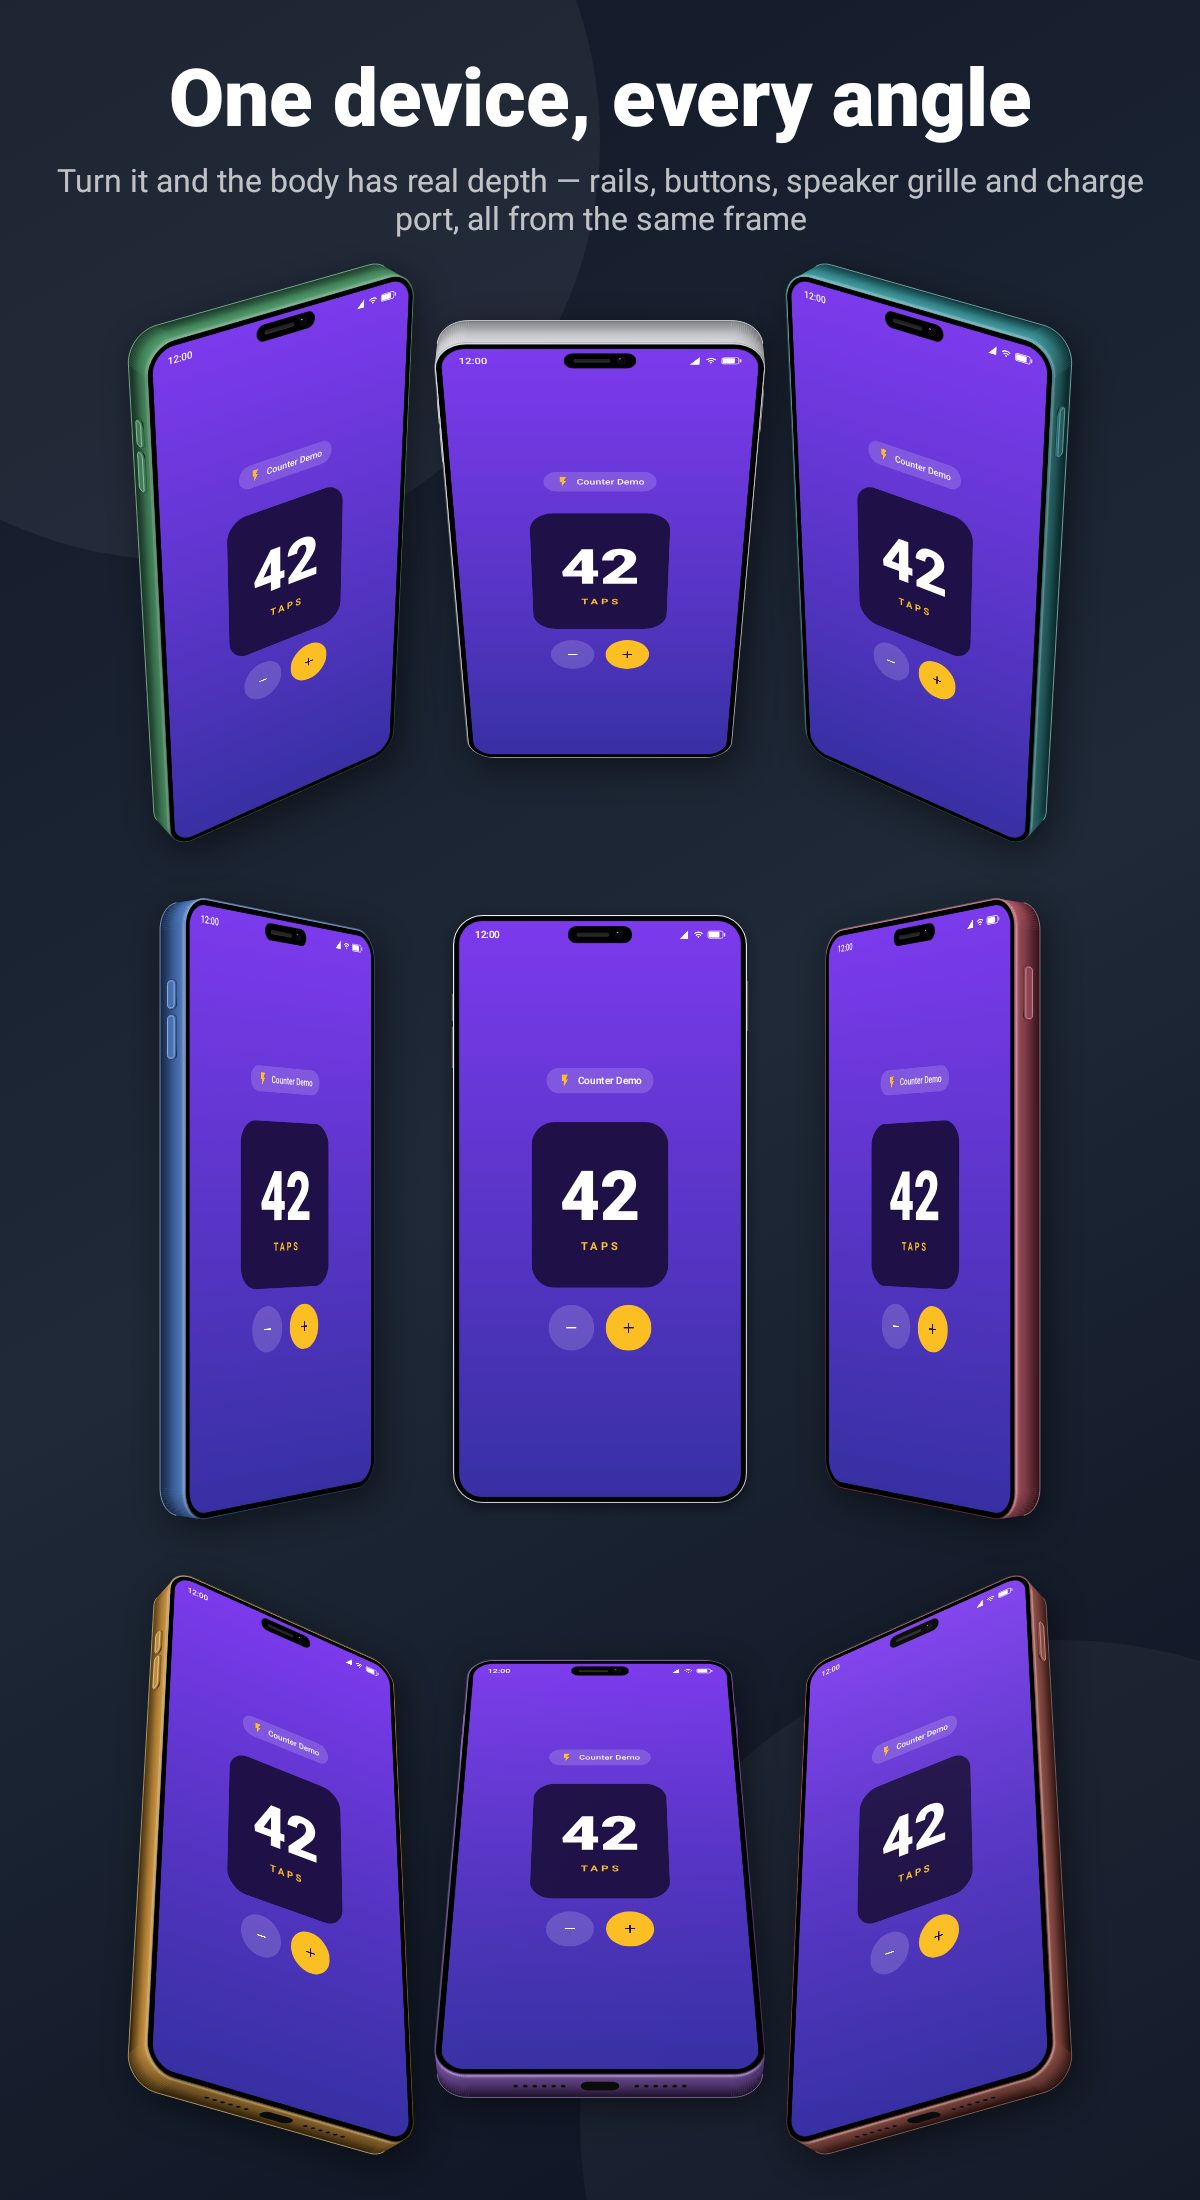
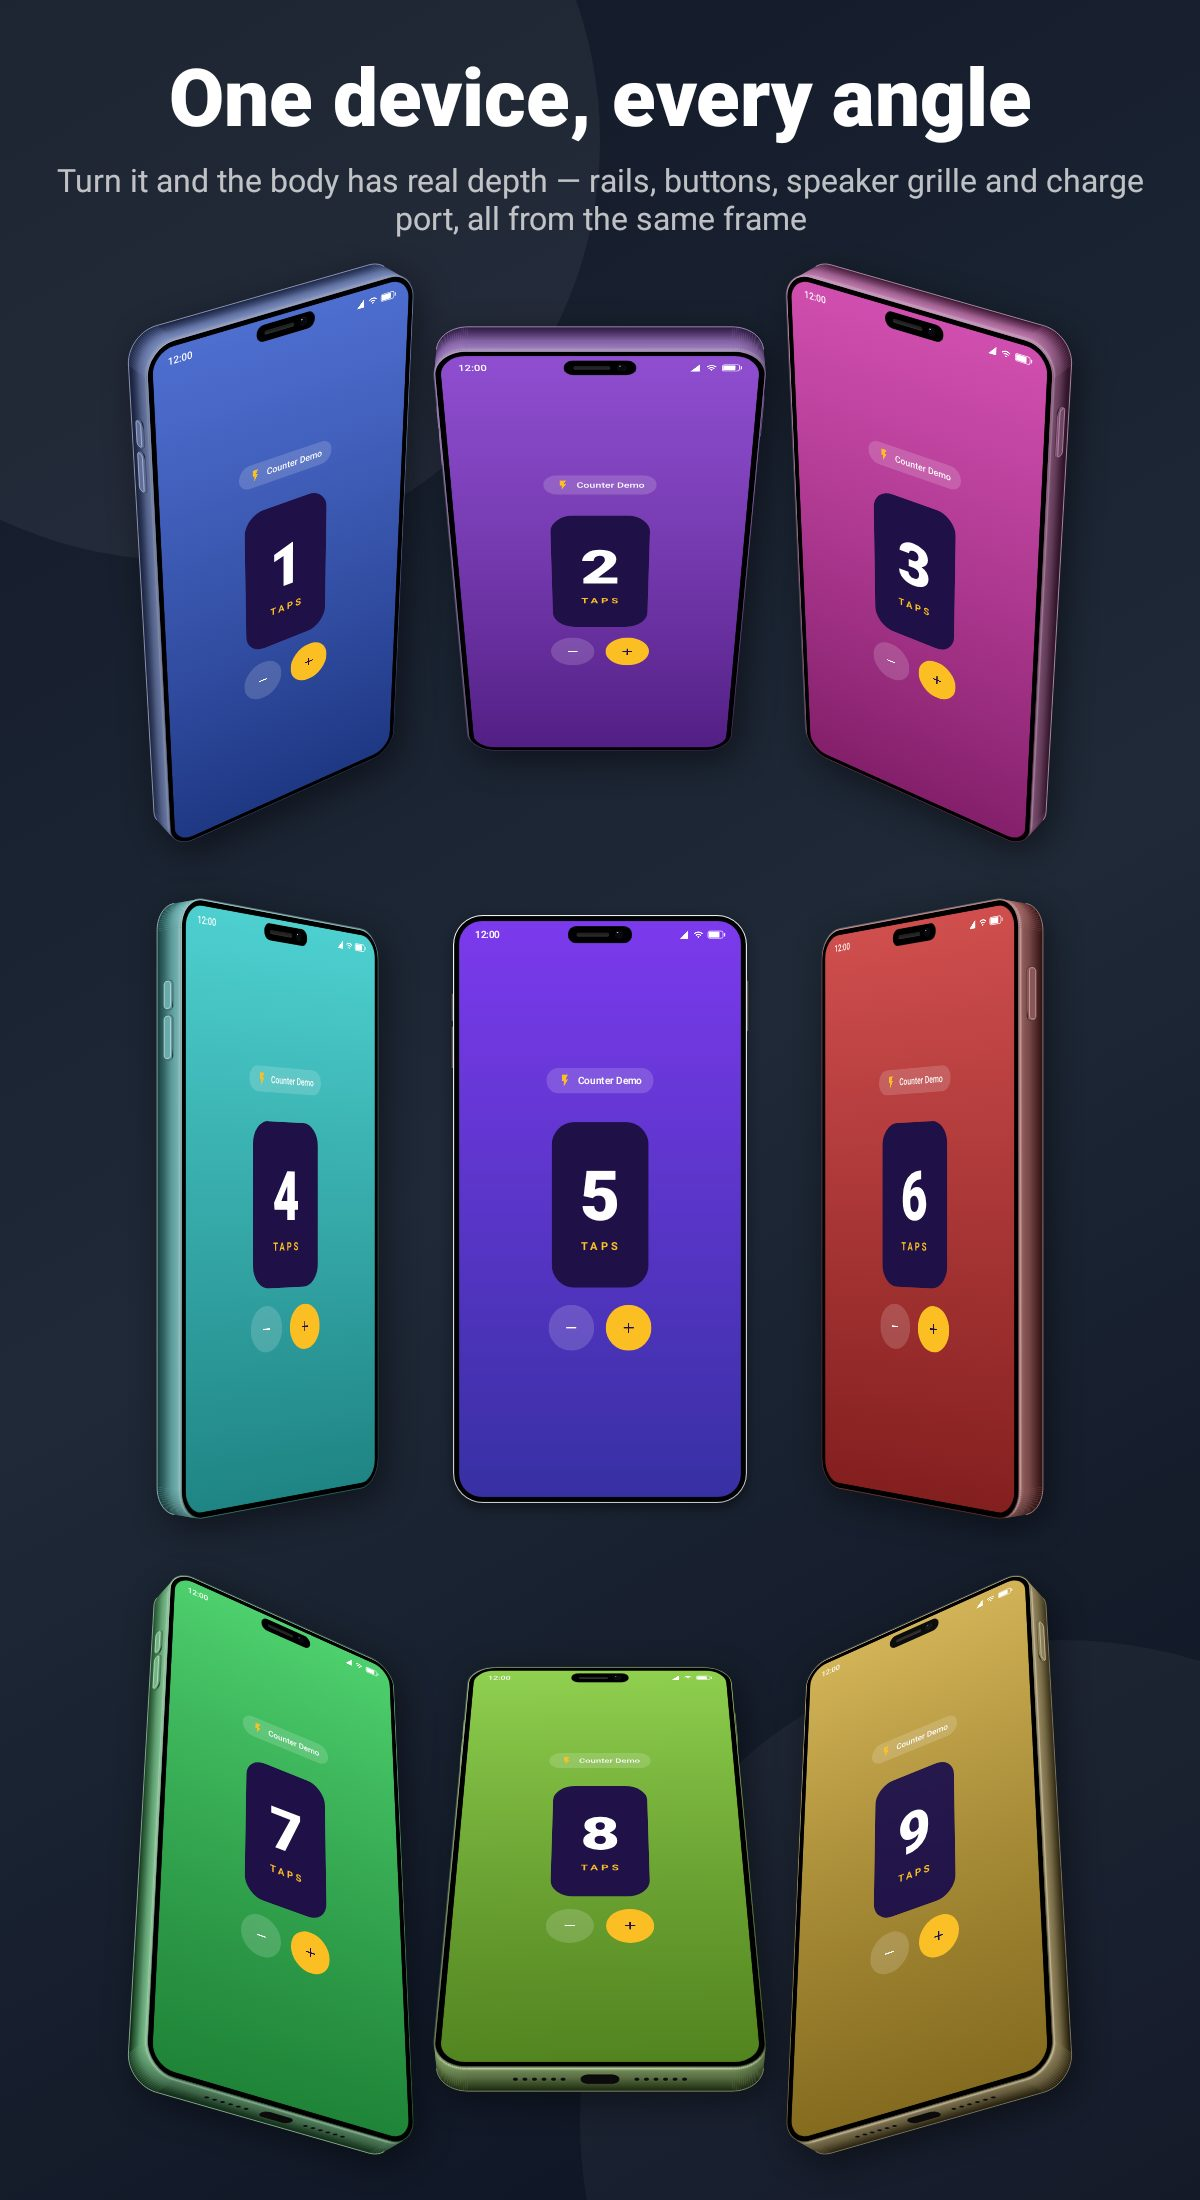
Give every device in the showcase its own screen
Nine identical counter screens made the grid look like one render repeated,
which is the opposite of what it is: nine separate compositions, each
measured, laid out and warped onto its own quad. Colouring each screen to
the hue of the body it sits on says that in the one way a still image can —
a bitmap mockup would need nine renders to do it, and this needs none.

The tilts are generated from two constants now instead of a hand-written
table. A corner device turns on both axes at once, so each axis takes about
1/sqrt(2) of the turn an edge device makes on its one axis; a corner taking
the full angle on each would read as far steeper than its neighbours rather
than as the same turn pointed diagonally. That lands corners at 34 degrees
and edges at 48, which is where the table already sat — the angles do not
move, the reason for them is now written down.

The middle one keeps CounterScreen's own purple. It is the reference device
in every other respect, so it should show the app in the colours the app
actually has, and leaving it out of the wheel is also what keeps it legible
as the one that is not turned.

diff --git a/example/src/main/kotlin/dev/lucianosantos/storescreenshots/example/SolidShowcaseBanner.kt b/example/src/main/kotlin/dev/lucianosantos/storescreenshots/example/SolidShowcaseBanner.kt
@@ -24,11 +24,12 @@ import androidx.compose.ui.text.font.FontWeight
 import androidx.compose.ui.text.style.TextAlign
 import androidx.compose.ui.unit.dp
 import androidx.compose.ui.unit.sp
+import kotlin.math.atan2
 import dev.lucianosantos.storescreenshots.DeviceMockup
 import dev.lucianosantos.storescreenshots.FormFactor
 import dev.lucianosantos.storescreenshots.MockupMaterial
 
-/** One device in the grid: how far it is turned, and what it is made of. */
+/** One device in the grid: how far it is turned, what it is made of, and what is on it. */
 @Immutable
 private class ShowcaseDevice(
     val rotationY: Float,
@@ -36,49 +37,101 @@ private class ShowcaseDevice(
     val rail: Color,
     val edge: Color,
     val back: Color,
+    /** `null` keeps [CounterScreen]'s own page background — the app as it really looks. */
+    val screen: Brush?,
+    val count: Int,
 )
+
+/** How far the grid reaches either side of its centre: three rows and three columns. */
+private const val CompassReach = 1
+
+/**
+ * How far a device is turned, in degrees, when a single axis is doing all the turning.
+ *
+ * A tilt has to clear the angle the camera already views that edge from, or the rail it is meant to
+ * expose never appears. A phone is twice as tall as it is wide, so its top and bottom edges are
+ * already seen from about 25 degrees above or below where its sides are seen from only 13 — which
+ * is why this is well past both rather than split to suit the easier one. It stays inside the 75
+ * degrees the renderer supports with room to spare.
+ */
+private const val CompassTilt = 48f
+
+/**
+ * What each axis takes when a corner device turns on both at once.
+ *
+ * Roughly 1/sqrt(2), so the total turn is the same as an edge device's: a corner that took the full
+ * [CompassTilt] on each axis would read as far steeper than its neighbours rather than as the same
+ * turn pointed diagonally. Thirty-four degrees still clears the 25 the top and bottom rails need.
+ */
+private const val DiagonalShare = 0.71f
+
+/**
+ * The device at [row], [col] out from the centre — its tilt, its finish, and its screen.
+ *
+ * Hue follows the direction the device is turned, so the grid reads as a colour wheel. The screen
+ * takes the *same* hue as the body, which is the part that only works because the screen is live
+ * Compose rather than a picture: nine different compositions are being measured, laid out and
+ * warped onto nine different quads, and every one of them can be told what colour to be.
+ *
+ * The centre is white and has no direction to take a hue from — which is the point, since it is the
+ * one device that is not turned at all. Its screen is left at [CounterScreen]'s own background for
+ * the same reason: it is the reference, so it shows the app in the colours the app actually has.
+ */
+private fun compassDevice(row: Int, col: Int, count: Int): ShowcaseDevice {
+    if (row == 0 && col == 0) {
+        return ShowcaseDevice(
+            rotationY = 0f,
+            rotationX = 0f,
+            rail = Color(0xFFF2F3F5),
+            edge = Color(0xFFFFFFFF),
+            back = Color(0xFFBFC3C7),
+            screen = null,
+            count = count,
+        )
+    }
+    val share = if (row != 0 && col != 0) DiagonalShare else 1f
+    // A device in the left column shows its *left* rail, and a positive rotationY is what brings
+    // that edge toward the viewer — so the sign is the opposite of the column's.
+    val hue = ((Math.toDegrees(atan2(row.toDouble(), col.toDouble())).toFloat() + 360f) % 360f)
+    return ShowcaseDevice(
+        rotationY = -col * CompassTilt * share,
+        rotationX = row * CompassTilt * share,
+        rail = Color.hsl(hue, 0.34f, 0.60f),
+        edge = Color.hsl(hue, 0.44f, 0.86f),
+        back = Color.hsl(hue, 0.42f, 0.22f),
+        screen = Brush.verticalGradient(
+            listOf(Color.hsl(hue, 0.58f, 0.56f), Color.hsl(hue, 0.62f, 0.32f))
+        ),
+        count = count,
+    )
+}
 
 /**
  * Three rows of three, laid out as a compass: each device is turned toward the side of the grid it
- * sits on, and the one in the middle is not turned at all.
+ * sits on.
  *
  * So the top row shows its top rail, the left column its left, and the corners show the two that
  * meet there — which is where the band has to stay continuous around the radius, the thing that
  * comes free from extruding one outline and does not from drawing four separate faces. Between the
- * nine, every rail the body has is in view somewhere, along with the buttons, speaker grille and
- * charge port that live on them.
+ * nine, every rail the body has is in view, along with the buttons, speaker grille and charge port
+ * that live on them.
  *
  * The centre is the point of the whole grid: **no tilt at all**. It does not go through the solid
  * renderer — it takes the original flat path, and is the only one of the nine with no rail to show.
  * It is white rather than left at the default, because a finish applies to an untilted device too:
- * it has no sides in view, but it is still made of something. Everything around it is the same
- * frame at the same measurements, differing only in how far it is turned and in three colours of
- * `mockupMaterial`.
- *
- * The X tips are the steeper numbers on purpose. A phone is twice as tall as it is wide, so the
- * camera already looks at its bottom edge from about 25 degrees above, and the body has to pass
- * that before a horizontal rail comes into view — where a side rail shows from about 13. A negative
- * X brings the top toward the viewer and a positive one the bottom.
+ * it has no sides in view, but it is still made of something. Every other device is the same frame
+ * at the same measurements, differing only in how far it is turned, in three colours of
+ * `mockupMaterial`, and in the screen it is showing.
  */
-private val ShowcaseGrid: List<List<ShowcaseDevice>> = listOf(
-    listOf(
-        ShowcaseDevice(34f, -34f, Color(0xFF4F9A6A), Color(0xFFB8E6C8), Color(0xFF1F4430)),
-        ShowcaseDevice(0f, -46f, Color(0xFFD6D8DB), Color(0xFFFFFFFF), Color(0xFF8E9195)),
-        ShowcaseDevice(-34f, -34f, Color(0xFF3F9AA0), Color(0xFFB2E4E8), Color(0xFF14464A)),
-    ),
-    listOf(
-        ShowcaseDevice(50f, 0f, Color(0xFF4F7BC4), Color(0xFFBBD2F5), Color(0xFF1B3157)),
-        // The middle of the grid: face on, and so still the original flat path. A finish reaches it
-        // all the same — an untilted device has no rails to show, but it is still made of something.
-        ShowcaseDevice(0f, 0f, Color(0xFFF2F3F5), Color(0xFFFFFFFF), Color(0xFFBFC3C7)),
-        ShowcaseDevice(-50f, 0f, Color(0xFFC05C6E), Color(0xFFF0C3CC), Color(0xFF55202B)),
-    ),
-    listOf(
-        ShowcaseDevice(34f, 34f, Color(0xFFC9913F), Color(0xFFF2DCA8), Color(0xFF5B3F14)),
-        ShowcaseDevice(0f, 46f, Color(0xFF8B5FBF), Color(0xFFD9C2F0), Color(0xFF3A2354)),
-        ShowcaseDevice(-34f, 34f, Color(0xFFB5645A), Color(0xFFEFC7C1), Color(0xFF4C231E)),
-    ),
-)
+private val ShowcaseGrid: List<List<ShowcaseDevice>> =
+    (-CompassReach..CompassReach).map { row ->
+        (-CompassReach..CompassReach).map { col ->
+            // Counted in reading order, so no two devices show the same screen and the numbers run
+            // left to right and top to bottom the way the eye already reads the grid.
+            val index = (row + CompassReach) * (CompassReach * 2 + 1) + (col + CompassReach)
+            compassDevice(row, col, count = index + 1)
+        }
+    }
 
 @Composable
 fun SolidShowcaseBanner(title: String, description: String? = null) {
@@ -150,7 +203,13 @@ fun SolidShowcaseBanner(title: String, description: String? = null) {
                                     edgeHighlightColor = device.edge,
                                     backEdgeColor = device.back,
                                 ),
-                            ) { CounterScreen(count = 42) }
+                            ) {
+                                if (device.screen == null) {
+                                    CounterScreen(count = device.count)
+                                } else {
+                                    CounterScreen(count = device.count, background = device.screen)
+                                }
+                            }
                         }
                     }
                 }

diff --git a/example/src/screenshots/kotlin/dev/lucianosantos/storescreenshots/example/SolidShowcaseExampleTest.kt b/example/src/screenshots/kotlin/dev/lucianosantos/storescreenshots/example/SolidShowcaseExampleTest.kt
@@ -10,10 +10,11 @@ import org.junit.Test
  * Nine devices laid out as a compass, flat in the middle — the showcase for the solid renderer.
  * See [SolidShowcaseBanner] for why these particular angles.
  *
- * On a tall canvas rather than the feature graphic's own 1024x500. Three phones side by side are
- * half as tall as they are wide, so three rows of them want roughly 1:2 — the same shape a single
- * phone is, which is the one shape a 2:1 banner cannot hold. The form factor is still the feature
- * graphic, so the shot lands with the other banners; only its size is overridden.
+ * On a tall canvas rather than the feature graphic's own 1024x500. A square grid of phones has the
+ * shape of a single phone whatever its size — three across are half as tall as they are wide, and
+ * three rows of them are twice as tall as they are wide — so it wants roughly 1:2, which is the one
+ * shape a 2:1 banner cannot hold. The form factor is still the feature graphic, so the shot lands
+ * with the other banners; only its size is overridden.
  */
 class SolidShowcaseExampleTest : StoreScreenshotsTest(
     FormFactor.GooglePlayFeatureGraphic,

diff --git a/README.md b/README.md
@@ -554,8 +554,10 @@ Wear screenshots have no title/description banner, so `mockupPosition` doesn't a
 <img src="example/screenshots/en-US/images/featureGraphic/solid_showcase.jpg" width="420" />
 
 *One phone frame, nine times. Each device is turned toward the side of the grid it sits on, so the
-top row shows its top rail, the left column its left, and the corners the two that meet there. The
-one in the middle is not tilted at all — it never enters the solid renderer, and it is the only one
+top row shows its top rail, the left column its left, and the corners the two that meet there. Every
+screen is a different live composition, coloured to match the body it is on, because the front face
+is real Compose being measured and warped rather than a picture being stretched. The one in the
+middle is not tilted at all: it never enters the solid renderer, and it is the only one of the nine
 with no rail to show.*
 
 | Android phone | iPhone |
